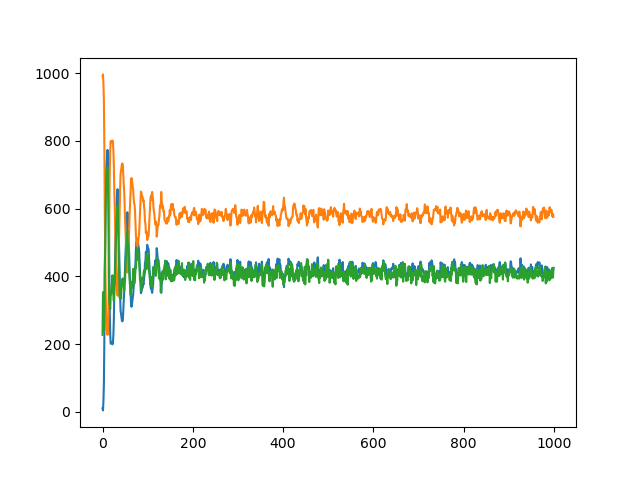
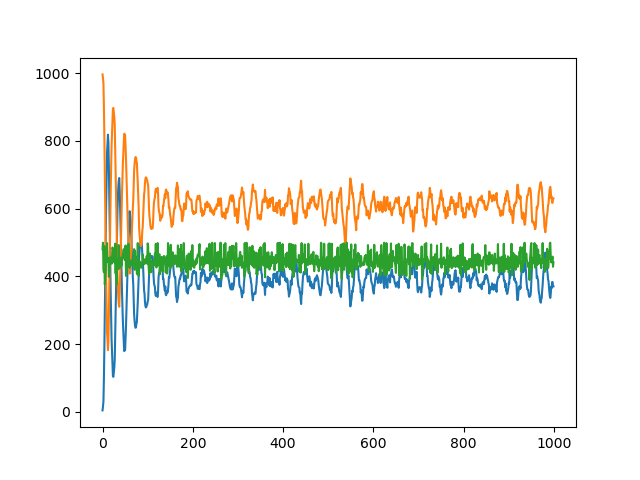
Add files via upload

Changed region(s): [[0.1562, 0.2188, 0.875, 0.7812]]

diff --git a/Group.py b/Group.py
@@ -9,7 +9,7 @@ MAX_GROUP_SIZE = 10
 def SUBTEAM_2_PLACEHOLDER(groups,agents,aChance):
     subteam_2_output = [random.random() <= aChance and a.phase != 'symptomatic' for a in agents]
     q = deque(subteam_2_output)
-    for g in groups: g.willGoOut = [q.popleft() for _ in g]
+    for g in groups: g.willGoOut = [a.setwillGoOut(q.popleft()) for a in g]
 
 class Groups:
     class Group:
@@ -30,7 +30,7 @@ class Groups:
                 brainOutput = self.brain.computeOutput(self.willGoOut+self.wonLastRound)
                 self.goingOut = brainOutput[0] > brainOutput[1]
                 return self.goingOut
-            return [a for i,a in enumerate(self.agents) if self.willGoOut[i]] if groupGoingOut() else []
+            return [a for a in self.agents if a.willGoOut] if groupGoingOut() else []
 
         def updateGroup(self):
             self.wonLastRound = [a.wonLastRound for a in self.agents]
@@ -75,15 +75,9 @@ class Groups:
         for a in self.agents: a.passDay(self.disease)
         return attendance
 
-    def getWinners(self,attendance):
-        attendance = set(a for r in attendance for g in r for a in g)
-        attendeesWin = len(attendance) <= len(self.agents)/2
-        homiesWin = len(attendance) > len(self.agents)/2
-        winners = []
-        for a in self.agents:
-            if a in attendance: winners.append(attendeesWin and a.isHealthy())
-            else: winners.append(homiesWin or a.isSick())
-            a.wonLastRound = winners[-1]
+    def getWinners(self):
+        sickness = [a.isSick() for a in self.agents]
+        winners = gc.getWinners(self.agents,sickness)
         for g in self.groups:
             g.updateGroup()
         return winners

diff --git a/Group.c b/Group.c
@@ -31,8 +31,43 @@ static PyObject* getGroupSizes(PyObject* self, PyObject* args) {
     return out;
 }
 
+static PyObject* getWinners(PyObject* self, PyObject* args) {
+    PyObject* lt;
+    PyObject* sickness;
+
+    if (!PyArg_ParseTuple(args,"OO",&lt,&sickness)) return NULL;
+    if(!PyList_Check(lt)) return NULL;
+
+    int numAttendeesWeighted = 0;
+    for(int i = 0; i < PyList_Size(lt); i++) {
+        PyObject* agent = PyList_GetItem(lt,i);
+        PyObject* awgo = PyObject_GetAttrString(agent,"willGoOut");
+        if(PyObject_IsTrue(awgo)) numAttendeesWeighted++;
+    }
+    numAttendeesWeighted *= 2;
+
+    PyObject* winners = PyList_New(PyList_Size(lt));
+    int attendeesWin = numAttendeesWeighted <= PyList_Size(lt);
+    int homiesWin = numAttendeesWeighted > PyList_Size(lt);
+    for(int i = 0; i < PyList_Size(lt); i++) {
+        PyObject* agent = PyList_GetItem(lt,i);
+        PyObject* awgo = PyObject_GetAttrString(agent,"willGoOut");
+        int isSick = PyObject_IsTrue(PyList_GetItem(sickness,i));
+
+        PyObject* wonRound;
+        if(PyObject_IsTrue(awgo)) wonRound = (attendeesWin && !isSick) ? Py_True:Py_False;
+        else wonRound = (homiesWin || isSick) ? Py_True:Py_False;
+
+        PyObject_SetAttrString(agent,"wonLastRound",wonRound);
+        PyList_SetItem(winners,i,wonRound);
+    }
+
+    return winners;
+}
+
 static PyMethodDef GroupCMethods[] = {
     {"getGroupSizes", getGroupSizes, METH_VARARGS, NULL},
+    {"getWinners", getWinners, METH_VARARGS, NULL},
     {NULL,NULL,0,NULL}
 };
 

diff --git a/Agent.py b/Agent.py
@@ -3,6 +3,7 @@ import random
 class Agent:
     def __init__(self,disease):
         self.wonLastRound = True
+        self.willGoOut = False
         if random.random() <= disease.startSickChance:
             if random.random() <= disease.startSymptomaticChance:
                 self.phase = 'symptomatic'
@@ -27,6 +28,10 @@ class Agent:
             else:
                 self.phase = 'healthy'
                 self.daysLeft = -1
+
+    def setwillGoOut(self,wgo):
+        self.willGoOut = wgo
+        return self.willGoOut
     
     def infect(self,disease):
         if self.phase == 'healthy':

diff --git a/Main.py b/Main.py
@@ -11,8 +11,8 @@ def main(inputs):
     for i in range(inputs['numDays']):
         sick[i] = groups.getSick()
         healthy[i] = groups.getHealthy()
-        attendance = groups.passDay()
-        winners[i] = sum(1 for v in groups.getWinners(attendance) if v)
+        groups.passDay()
+        winners[i] = sum(1 for v in groups.getWinners() if v)
 
     return sick,healthy,winners
 
